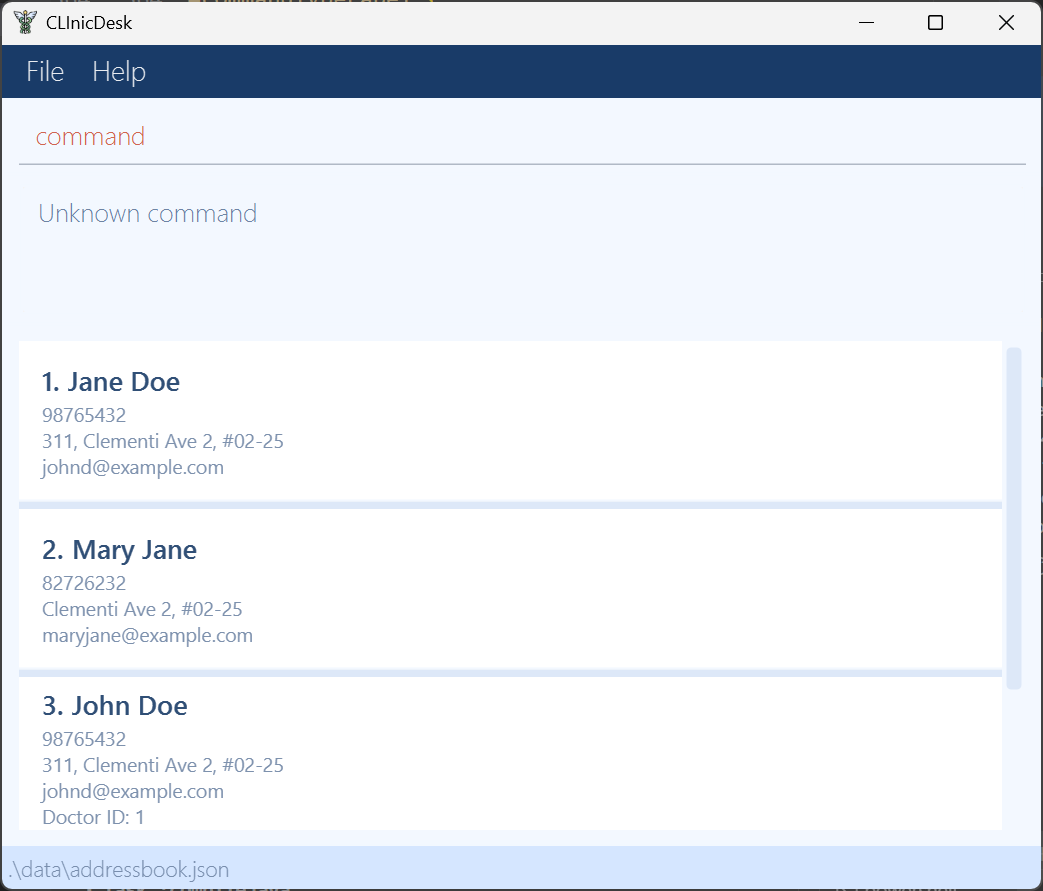
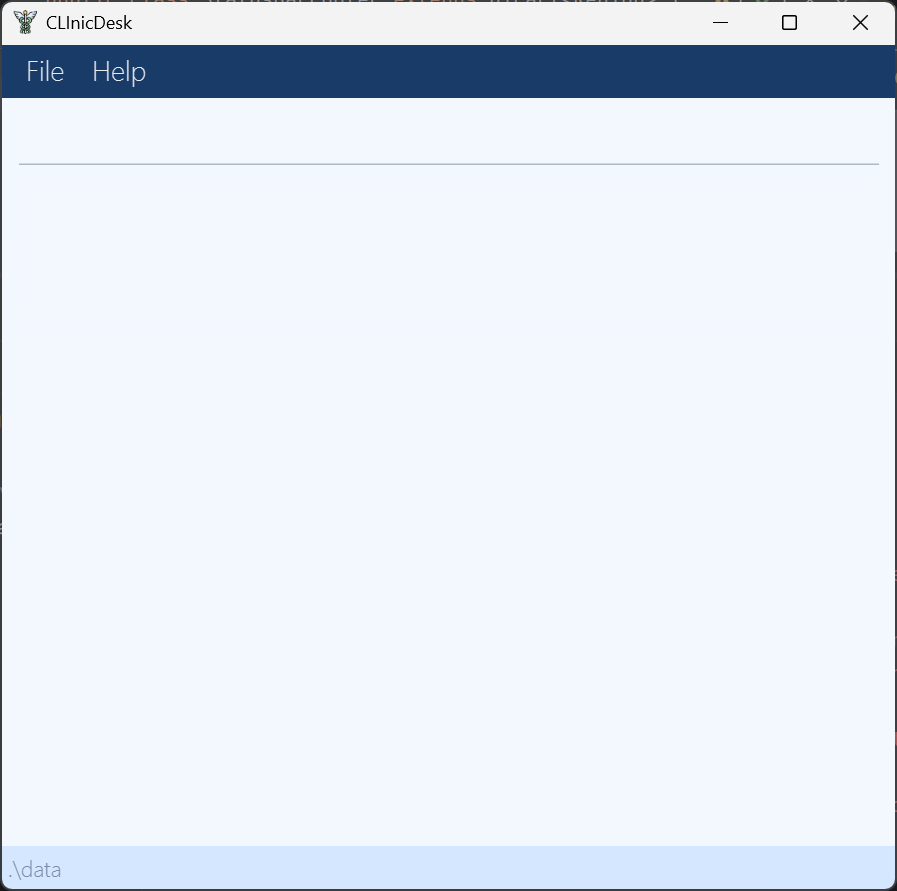
Specify that application starts empty

diff --git a/src/main/java/seedu/address/ui/StatusBarFooter.java b/src/main/java/seedu/address/ui/StatusBarFooter.java
@@ -22,7 +22,8 @@ public class StatusBarFooter extends UiPart<Region> {
      */
     public StatusBarFooter(Path saveLocation) {
         super(FXML);
-        saveLocationStatus.setText(Paths.get(".").resolve(saveLocation).toString());
+        Path dataDirectory = saveLocation.getParent();
+        saveLocationStatus.setText(Paths.get(".").resolve(dataDirectory).toString());
     }
 
 }

diff --git a/docs/UserGuide.md b/docs/UserGuide.md
@@ -28,7 +28,7 @@ CLInicDesk is optimized for use through a Command Line Interface (CLI) while sti
 1. Copy the file to the folder you want to use as the _home folder_ for your CLInicDesk.
 
 1. Open a command terminal, `cd` into the folder you put the jar file in, and use the `java -jar clinicdesk.jar` command to run the application.<br>
-   A GUI similar to the below should appear in a few seconds. Note how the app contains some sample data.<br>
+   A GUI similar to the below should appear in a few seconds.<br>
    <div class="image-container">
 
    ![Ui](images/Ui.png)
